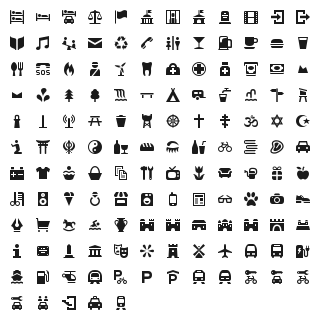
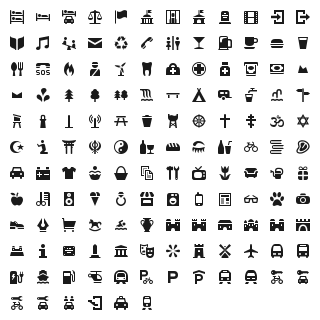
added unspecified tree

diff --git a/font/osmic-preview.html b/font/osmic-preview.html
@@ -194,7 +194,7 @@
 .oc-cinema:before,
 .oc-city-gate:before,
 .oc-clothes:before,
-.oc-confectionary:before,
+.oc-confectionery:before,
 .oc-convenience:before,
 .oc-copyshop:before,
 .oc-courthouse:before,
@@ -291,6 +291,7 @@
 .oc-tram-stop:before,
 .oc-tree-coniferous:before,
 .oc-tree-deciduous:before,
+.oc-tree-unspecified:before,
 .oc-viewpoint:before,
 .oc-waste-basket:before,
 .oc-watchtower:before,
@@ -345,7 +346,7 @@
 .oc-cinema:before { content: "\f11a"; }
 .oc-city-gate:before { content: "\f11b"; }
 .oc-clothes:before { content: "\f11c"; }
-.oc-confectionary:before { content: "\f180"; }
+.oc-confectionery:before { content: "\f18b"; }
 .oc-convenience:before { content: "\f11d"; }
 .oc-copyshop:before { content: "\f188"; }
 .oc-courthouse:before { content: "\f11e"; }
@@ -442,6 +443,7 @@
 .oc-tram-stop:before { content: "\f16b"; }
 .oc-tree-coniferous:before { content: "\f177"; }
 .oc-tree-deciduous:before { content: "\f176"; }
+.oc-tree-unspecified:before { content: "\f18a"; }
 .oc-viewpoint:before { content: "\f178"; }
 .oc-waste-basket:before { content: "\f16c"; }
 .oc-watchtower:before { content: "\f16d"; }
@@ -463,7 +465,7 @@
   <body class="characters-off">
     <div id="page" class="container">
       <header>
-        <h1>osmic contains 137 glyphs:</h1>
+        <h1>osmic contains 138 glyphs:</h1>
         <a onclick="toggleCharacters(); return false;" href="#">Toggle Preview Characters</a>
       </header>
 
@@ -912,14 +914,14 @@
       
       <div class="glyph">
         <div class="preview-glyphs">
-          <span class="step size-12"><span class="letters">Pp</span><i id="oc-confectionary" class="oc-confectionary"></i></span><span class="step size-14"><span class="letters">Pp</span><i id="oc-confectionary" class="oc-confectionary"></i></span><span class="step size-16"><span class="letters">Pp</span><i id="oc-confectionary" class="oc-confectionary"></i></span><span class="step size-18"><span class="letters">Pp</span><i id="oc-confectionary" class="oc-confectionary"></i></span><span class="step size-21"><span class="letters">Pp</span><i id="oc-confectionary" class="oc-confectionary"></i></span><span class="step size-24"><span class="letters">Pp</span><i id="oc-confectionary" class="oc-confectionary"></i></span><span class="step size-36"><span class="letters">Pp</span><i id="oc-confectionary" class="oc-confectionary"></i></span><span class="step size-48"><span class="letters">Pp</span><i id="oc-confectionary" class="oc-confectionary"></i></span><span class="step size-60"><span class="letters">Pp</span><i id="oc-confectionary" class="oc-confectionary"></i></span><span class="step size-72"><span class="letters">Pp</span><i id="oc-confectionary" class="oc-confectionary"></i></span>
+          <span class="step size-12"><span class="letters">Pp</span><i id="oc-confectionery" class="oc-confectionery"></i></span><span class="step size-14"><span class="letters">Pp</span><i id="oc-confectionery" class="oc-confectionery"></i></span><span class="step size-16"><span class="letters">Pp</span><i id="oc-confectionery" class="oc-confectionery"></i></span><span class="step size-18"><span class="letters">Pp</span><i id="oc-confectionery" class="oc-confectionery"></i></span><span class="step size-21"><span class="letters">Pp</span><i id="oc-confectionery" class="oc-confectionery"></i></span><span class="step size-24"><span class="letters">Pp</span><i id="oc-confectionery" class="oc-confectionery"></i></span><span class="step size-36"><span class="letters">Pp</span><i id="oc-confectionery" class="oc-confectionery"></i></span><span class="step size-48"><span class="letters">Pp</span><i id="oc-confectionery" class="oc-confectionery"></i></span><span class="step size-60"><span class="letters">Pp</span><i id="oc-confectionery" class="oc-confectionery"></i></span><span class="step size-72"><span class="letters">Pp</span><i id="oc-confectionery" class="oc-confectionery"></i></span>
         </div>
         <div class="preview-scale">
           <span class="step">12</span><span class="step">14</span><span class="step">16</span><span class="step">18</span><span class="step">21</span><span class="step">24</span><span class="step">36</span><span class="step">48</span><span class="step">60</span><span class="step">72</span>
         </div>
         <div class="usage">
-          <input class="class" type="text" readonly="readonly" onClick="this.select();" value=".oc-confectionary" />
-          <input class="point" type="text" readonly="readonly" onClick="this.select();" value="&amp;#xf180;" />
+          <input class="class" type="text" readonly="readonly" onClick="this.select();" value=".oc-confectionery" />
+          <input class="point" type="text" readonly="readonly" onClick="this.select();" value="&amp;#xf18b;" />
         </div>
       </div>
       
@@ -2168,6 +2170,19 @@
         <div class="usage">
           <input class="class" type="text" readonly="readonly" onClick="this.select();" value=".oc-tree-deciduous" />
           <input class="point" type="text" readonly="readonly" onClick="this.select();" value="&amp;#xf176;" />
+        </div>
+      </div>
+      
+      <div class="glyph">
+        <div class="preview-glyphs">
+          <span class="step size-12"><span class="letters">Pp</span><i id="oc-tree-unspecified" class="oc-tree-unspecified"></i></span><span class="step size-14"><span class="letters">Pp</span><i id="oc-tree-unspecified" class="oc-tree-unspecified"></i></span><span class="step size-16"><span class="letters">Pp</span><i id="oc-tree-unspecified" class="oc-tree-unspecified"></i></span><span class="step size-18"><span class="letters">Pp</span><i id="oc-tree-unspecified" class="oc-tree-unspecified"></i></span><span class="step size-21"><span class="letters">Pp</span><i id="oc-tree-unspecified" class="oc-tree-unspecified"></i></span><span class="step size-24"><span class="letters">Pp</span><i id="oc-tree-unspecified" class="oc-tree-unspecified"></i></span><span class="step size-36"><span class="letters">Pp</span><i id="oc-tree-unspecified" class="oc-tree-unspecified"></i></span><span class="step size-48"><span class="letters">Pp</span><i id="oc-tree-unspecified" class="oc-tree-unspecified"></i></span><span class="step size-60"><span class="letters">Pp</span><i id="oc-tree-unspecified" class="oc-tree-unspecified"></i></span><span class="step size-72"><span class="letters">Pp</span><i id="oc-tree-unspecified" class="oc-tree-unspecified"></i></span>
+        </div>
+        <div class="preview-scale">
+          <span class="step">12</span><span class="step">14</span><span class="step">16</span><span class="step">18</span><span class="step">21</span><span class="step">24</span><span class="step">36</span><span class="step">48</span><span class="step">60</span><span class="step">72</span>
+        </div>
+        <div class="usage">
+          <input class="class" type="text" readonly="readonly" onClick="this.select();" value=".oc-tree-unspecified" />
+          <input class="point" type="text" readonly="readonly" onClick="this.select();" value="&amp;#xf18a;" />
         </div>
       </div>
       

diff --git a/font/osmic.css b/font/osmic.css
@@ -57,7 +57,7 @@
 .oc-cinema:before,
 .oc-city-gate:before,
 .oc-clothes:before,
-.oc-confectionary:before,
+.oc-confectionery:before,
 .oc-convenience:before,
 .oc-copyshop:before,
 .oc-courthouse:before,
@@ -154,6 +154,7 @@
 .oc-tram-stop:before,
 .oc-tree-coniferous:before,
 .oc-tree-deciduous:before,
+.oc-tree-unspecified:before,
 .oc-viewpoint:before,
 .oc-waste-basket:before,
 .oc-watchtower:before,
@@ -208,7 +209,7 @@
 .oc-cinema:before { content: "\f11a"; }
 .oc-city-gate:before { content: "\f11b"; }
 .oc-clothes:before { content: "\f11c"; }
-.oc-confectionary:before { content: "\f180"; }
+.oc-confectionery:before { content: "\f18b"; }
 .oc-convenience:before { content: "\f11d"; }
 .oc-copyshop:before { content: "\f188"; }
 .oc-courthouse:before { content: "\f11e"; }
@@ -305,6 +306,7 @@
 .oc-tram-stop:before { content: "\f16b"; }
 .oc-tree-coniferous:before { content: "\f177"; }
 .oc-tree-deciduous:before { content: "\f176"; }
+.oc-tree-unspecified:before { content: "\f18a"; }
 .oc-viewpoint:before { content: "\f178"; }
 .oc-waste-basket:before { content: "\f16c"; }
 .oc-watchtower:before { content: "\f16d"; }
